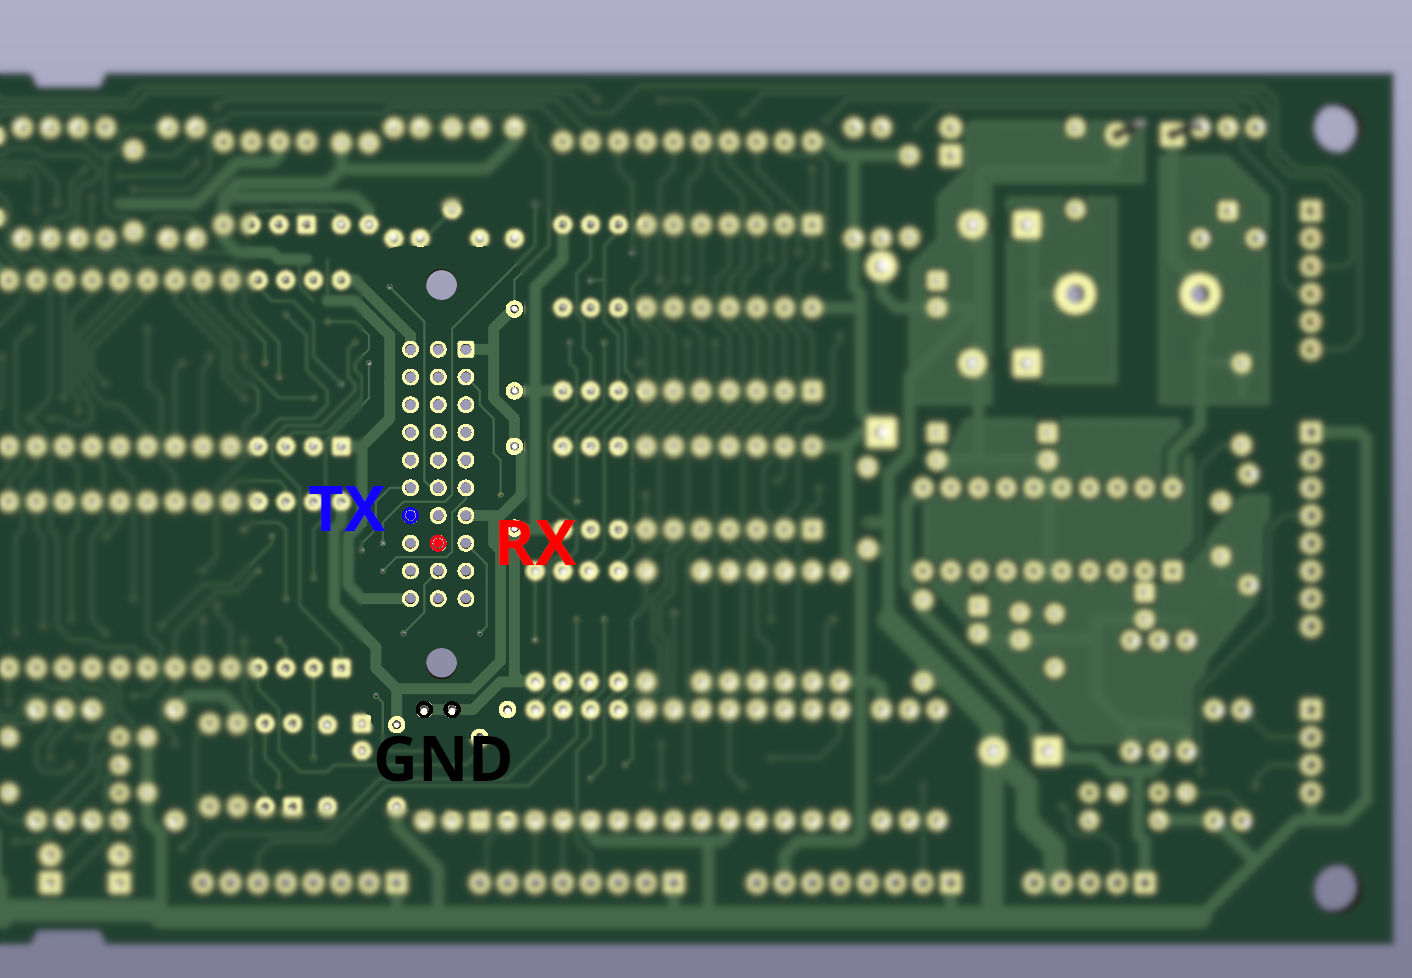
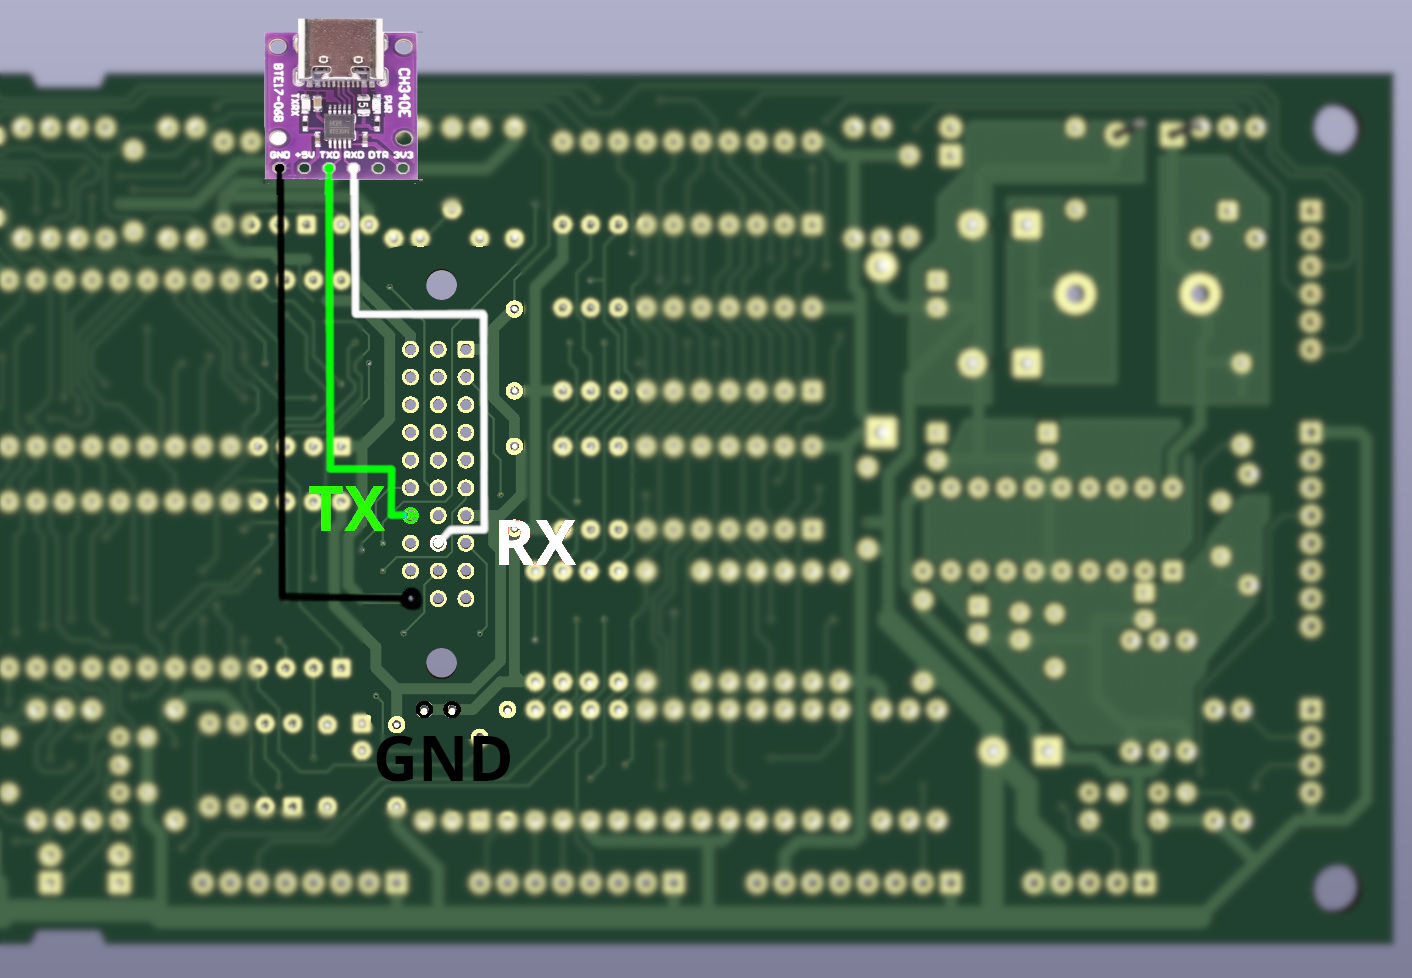
Deploying to gh-pages from @ Automatenunsinn/automatenunsinn.github.io@62fc4233b63e8a9ab596bff283608b0894f905dc 🚀

Changed region(s): [[0.187, 0.0, 0.4051, 0.6442]]

diff --git a/db.html b/db.html
@@ -4,11 +4,11 @@
 <head>
     <meta charset="UTF-8">
     <meta name="viewport" content="width=device-width, initial-scale=1.0">
-    <title>Datenbanken reparieren - Automatenunsinn</title>
+    <title>Merkur Datenbanken reparieren - Automatenunsinn</title>
     <meta name="description" content="Anleitung zur Reparatur von ADP Datenbanken.">
     <meta name="keywords" content="ADP, Datenbank, Reparatur, Merkur, Spielautomat, Automatenunsinn, Smart-DIL, Atmega, ISP">
     <link rel="canonical" href="https://automatenunsinn.github.io/db.html">
-    <meta property="og:title" content="Datenbanken reparieren - Automatenunsinn">
+    <meta property="og:title" content="Merkur Datenbanken reparieren - Automatenunsinn">
     <meta property="og:description" content="Anleitung zur Reparatur von ADP Datenbanken.">
     <meta property="og:type" content="website">
     <meta property="og:url" content="https://automatenunsinn.github.io/db.html">
@@ -17,7 +17,7 @@
     {
       "@context": "https://schema.org",
       "@type": "WebApplication",
-      "name": "Datenbanken reparieren - Automatenunsinn",
+      "name": "Merkur Datenbanken reparieren - Automatenunsinn",
       "url": "https://automatenunsinn.github.io/db.html",
       "description": "Anleitung zur Reparatur von ADP Datenbanken.",
       "applicationCategory": "Technical Article",
@@ -38,7 +38,7 @@
 
 <body>
     <main class="container py-5">
-        <h1 class="mb-5 text-center">Datenbanken reparieren</h1>
+        <h1 class="mb-5 text-center">Merkur Datenbanken reparieren</h1>
 
         <div class="row g-4">
             <!-- Einleitung & Kurzfassung -->

diff --git a/sw.js b/sw.js
@@ -1,1 +1,1 @@
-const CACHE_NAME="automatenunsinn-4845eb4",ASSETS=["/","index.html","zl.html","zl.js","pt.html","pt.js","bw.html","bw.js","style.css","favicon.ico","manifest.json","bazn.json"];self.addEventListener("install",e=>{e.waitUntil(caches.open(CACHE_NAME).then(e=>Promise.allSettled(ASSETS.map(t=>e.add(t))).then(e=>{const t=e.filter(e=>"rejected"===e.status);t.length>0&&console.warn("Some assets failed to cache:",t.map(e=>e.reason))})))}),self.addEventListener("activate",e=>{e.waitUntil(caches.keys().then(e=>Promise.all(e.map(e=>{if(e!==CACHE_NAME)return caches.delete(e)}))))}),self.addEventListener("fetch",e=>{e.respondWith(caches.match(e.request).then(t=>t||fetch(e.request)))});
+const CACHE_NAME="automatenunsinn-62fc423",ASSETS=["/","index.html","zl.html","zl.js","pt.html","pt.js","bw.html","bw.js","style.css","favicon.ico","manifest.json","bazn.json"];self.addEventListener("install",e=>{e.waitUntil(caches.open(CACHE_NAME).then(e=>Promise.allSettled(ASSETS.map(t=>e.add(t))).then(e=>{const t=e.filter(e=>"rejected"===e.status);t.length>0&&console.warn("Some assets failed to cache:",t.map(e=>e.reason))})))}),self.addEventListener("activate",e=>{e.waitUntil(caches.keys().then(e=>Promise.all(e.map(e=>{if(e!==CACHE_NAME)return caches.delete(e)}))))}),self.addEventListener("fetch",e=>{e.respondWith(caches.match(e.request).then(t=>t||fetch(e.request)))});